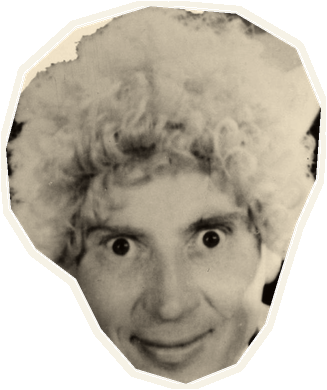
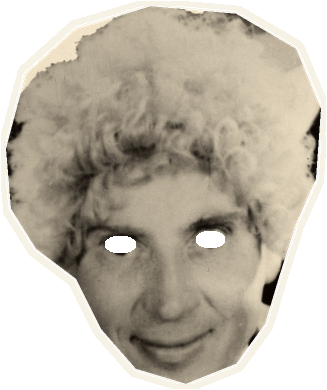
Harpo's eyes: holes in his face, his irises behind them, darting about all the time, often with his lids half down in a glare, now and then sliding slowly; to Raquel Torres when she passes

Changed region(s): [[0.581, 0.5846, 0.7034, 0.6462], [0.3058, 0.5846, 0.4281, 0.6462]]

diff --git a/src/grouchotime.c b/src/grouchotime.c
@@ -847,6 +847,37 @@ static void cues(double t0, double t1)
     if (e1 < 0 && gummo_at(t1, &gq1, &f1) && peeker(t1) == PEEK_GUMMO && f1 && gummo_at(t0, &gq0, &f0) && !f0) play(&honk2, 0.25);
 }
 
+/* Where Harpo's eyes are looking (-1 .. 1 across, -1 .. 1 up and down) and how far his
+ * lids are down (0 .. 1). They are never still for long: every so often (on a beat of
+ * EYE_BEAT seconds, at random) they dart somewhere new, to one side, the other, or at
+ * us, often with his lids half down in a glare; now and then they slide there slowly
+ * instead, which is creepier. They go to Raquel Torres, wide open, and roll round when
+ * his head comes up on its spring. */
+#define EYE_BEAT 0.35
+static void eye_target(long k, double *x, double *y, double *l)
+{
+    double a = hash01((uint64_t)k * 3 + 101), b = hash01((uint64_t)k * 3 + 102), c = hash01((uint64_t)k * 3 + 103);
+    *x = a < 0.3 ? -1 : a < 0.6 ? 1 : (a - 0.6) / 0.4 * 1.4 - 0.7;
+    *y = (b - 0.35) * 0.7;
+    *l = c < 0.45 ? 0.38 : 0;
+}
+static int eyes_move(long k) { return hash01((uint64_t)k * 5 + 77) < 0.4; }
+static void harpo_eyes(int ev, double ju, double *lx, double *ly, double *lid)
+{
+    long k = (long)floor(T / EYE_BEAT), k1 = k, k0;
+    while (k1 > k - 24 && !eyes_move(k1)) k1--;              /* when they last moved */
+    for (k0 = k1 - 1; k0 > k1 - 24 && !eyes_move(k0); k0--) ;
+    double x0, y0, l0, x1, y1, l1;
+    eye_target(k0, &x0, &y0, &l0);
+    eye_target(k1, &x1, &y1, &l1);
+    double since = T - k1 * EYE_BEAT, slow = hash01((uint64_t)k1 * 7 + 5) < 0.15 ? 0.9 : 0.07;
+    double q = ease(fmin(since / slow, 1)), ql = ease(fmin(since / 0.15, 1));
+    double x = x0 + (x1 - x0) * q, y = y0 + (y1 - y0) * q, l = l0 + (l1 - l0) * ql;
+    if (ev == EV_TORRES && ju > 0.1 && ju < 0.9) { x = -1; y = 0.2; l = 0; }
+    if (ev == EV_HARPO && ju < 0.85) { x = cos(ju * 20); y = sin(ju * 20); l = 0; }
+    *lx = x; *ly = y; *lid = l;
+}
+
 static void draw_scene(SDL_Renderer *r, int w, int h)
 {
     ren = r; sw = w; sh = h;
@@ -921,7 +952,8 @@ static void draw_scene(SDL_Renderer *r, int w, int h)
     hand(dx, dy, hp / 3600, dr * 1.42, dr * 0.05);
     flush(ren);
 
-    /* Harpo, as the sphinx: silent, and now and then his head goes over to one side */
+    /* Harpo, as the sphinx: silent, and now and then his head goes over to one side,
+     * while his eyes behind the holes in his face go where they please */
     {
         double hx, hy, tt = fmod(T, 23.0), tilt = 0;
         if (tt > 17) tilt = sin(M_PI * jerky(tt - 17) / 6) * 14;
@@ -937,7 +969,28 @@ static void draw_scene(SDL_Renderer *r, int w, int h)
             flush(ren);
             hy = top; tilt = sin(ju * 25) * 12;
         }
-        put(SP_harpo, hx, hy, HARPO_CHIN_X, HARPO_CHIN_Y, ms * 0.56, tilt, 1, 0);
+        double look_x, look_y, lid;
+        harpo_eyes(ev, ju, &look_x, &look_y, &lid);
+        double hsc = ms * 0.56, ra = tilt * M_PI / 180;
+        for (int e = 0; e < 2; e++) {
+            double ex = e ? HARPO_EYE_R_X : HARPO_EYE_L_X, ey = e ? HARPO_EYE_R_Y : HARPO_EYE_L_Y;
+            double rx = e ? HARPO_EYE_R_RX : HARPO_EYE_L_RX, ry = e ? HARPO_EYE_R_RY : HARPO_EYE_L_RY;
+            double dx = (ex - HARPO_CHIN_X) * hsc, dy = (ey - HARPO_CHIN_Y) * hsc;
+            double x = hx + dx * cos(ra) - dy * sin(ra), y = hy + dx * sin(ra) + dy * cos(ra);
+            disc(x, y, rx * hsc * 1.1, col((Rgb){236, 228, 210}, 1), col((Rgb){236, 228, 210}, 1));
+            flush(ren);
+            int ir = e ? SP_harpo_iris_r : SP_harpo_iris_l;
+            double ox = look_x * rx * 0.48, oy = look_y * ry * 0.4;
+            put(ir, x + (ox * cos(ra) - oy * sin(ra)) * hsc, y + (ox * sin(ra) + oy * cos(ra)) * hsc,
+                sprite[ir].w / 2.0, sprite[ir].h / 2.0, hsc, tilt, 1, 0);
+            if (lid > 0.01) {                                /* his lids, coming down */
+                double R = rx * hsc * 3, d = R + ry * hsc * (1 - 2 * lid);
+                flush(ren);
+                disc(x + d * sin(ra), y - d * cos(ra), R, col((Rgb){140, 129, 112}, 1), col((Rgb){140, 129, 112}, 1));
+            }
+        }
+        flush(ren);
+        put(SP_harpo, hx, hy, HARPO_CHIN_X, HARPO_CHIN_Y, hsc, tilt, 1, 0);
     }
 
     /* his eyes, behind the holes in his head: paper whites, and the irises going to

diff --git a/tools/make_cutouts.py b/tools/make_cutouts.py
@@ -57,6 +57,10 @@ BROTHERS = {
                (1320, 3220), (1240, 3140), (1190, 3020), (1160, 2880)], (1420, 3240)),
 }
 SPHINX_CHIN = (1345, 955)
+# Harpo's eyes, in his finished cut-out's pixels: the openings (a little bigger than his
+# own, so his glances show from across the room) and his irises
+HARPO_EYES = {"harpo_eye_l": (120, 244, 16, 9), "harpo_eye_r": (210, 239, 15, 9)}
+HARPO_IRIS_R = 7
 
 # ---- the ladies, for the business in between: Raquel Torres (1930s studio
 # portrait) and Margaret Dumont (The Cocoanuts, 1929), both public domain ----
@@ -273,6 +277,17 @@ def brothers(defs):
         rgba = np.dstack([rgb, (m * 255).astype(np.uint8)])[b:d, a:c]
         half = np.asarray(Image.fromarray(rgba, "RGBA").resize(((c - a) // 2, (d - b) // 2), Image.LANCZOS))
         out = with_edge(pad(half, EDGE + 1))
+        if name == "harpo":                                  # his eyes: irises out, holes in
+            oh, ow = out.shape[:2]
+            yy, xx = np.mgrid[0:oh, 0:ow]
+            for eye, (ex, ey, rx, ry) in HARPO_EYES.items():
+                r = HARPO_IRIS_R
+                piece = out[ey - r:ey + r, ex - r:ex + r].copy()
+                cy, cx = np.mgrid[0:2 * r, 0:2 * r]
+                piece[..., 3] = np.where((cx - r + 0.5) ** 2 + (cy - r + 0.5) ** 2 < r * r, 255, 0)
+                save(piece, eye.replace("eye", "iris"))
+                out[((xx - ex) / rx) ** 2 + ((yy - ey) / ry) ** 2 < 1, 3] = 0
+                defs[eye.upper()] = (ex, ey, rx, ry)
         save(out, name)
         defs[name.upper() + "_CHIN"] = ((chin[0] - a) / 2 + EDGE + 1, (chin[1] - b) / 2 + EDGE + 1)
     defs["SPHINX_CHIN"] = SPHINX_CHIN
@@ -293,7 +308,7 @@ def write_lists(defs):
     for k, v in defs.items():
         for i, n in enumerate(v):
             suffix = "XYZW"[i] if len(v) > 2 else "XY"[i]
-            if k in ("EYE_L", "EYE_R"): suffix = ("X", "Y", "RX", "RY")[i]
+            if k.endswith(("EYE_L", "EYE_R")): suffix = ("X", "Y", "RX", "RY")[i]
             if k == "DIAL": suffix = ("X", "Y", "R")[i]
             if k == "MONUMENT": suffix = ("W", "H")[i]
             lines.append(f"#define {k}_{suffix} {n:.1f}")

diff --git a/src/art.h b/src/art.h
@@ -1,6 +1,6 @@
 /* Made by tools/make_cutouts.py: every picture in assets/art. */
 #define SPRITES \
     X(brow_l, "brow_l.png") X(brow_r, "brow_r.png") X(chico, "chico.png") X(dumont, "dumont.png") \
-    X(flap, "flap.png") X(gummo, "gummo.png") X(harpo, "harpo.png") X(head, "head.png") \
-    X(iris_l, "iris_l.png") X(iris_r, "iris_r.png") X(monument, "monument.png") X(torres, "torres.png") \
-    X(zeppo, "zeppo.png")
+    X(flap, "flap.png") X(gummo, "gummo.png") X(harpo, "harpo.png") X(harpo_iris_l, "harpo_iris_l.png") \
+    X(harpo_iris_r, "harpo_iris_r.png") X(head, "head.png") X(iris_l, "iris_l.png") X(iris_r, "iris_r.png") \
+    X(monument, "monument.png") X(torres, "torres.png") X(zeppo, "zeppo.png")

diff --git a/src/cutouts.h b/src/cutouts.h
@@ -28,6 +28,14 @@
 #define PHOTO_CHIN_Y 745.0
 #define CHICO_CHIN_X 126.0
 #define CHICO_CHIN_Y 307.5
+#define HARPO_EYE_L_X 120.0
+#define HARPO_EYE_L_Y 244.0
+#define HARPO_EYE_L_RX 16.0
+#define HARPO_EYE_L_RY 9.0
+#define HARPO_EYE_R_X 210.0
+#define HARPO_EYE_R_Y 239.0
+#define HARPO_EYE_R_RX 15.0
+#define HARPO_EYE_R_RY 9.0
 #define HARPO_CHIN_X 186.0
 #define HARPO_CHIN_Y 383.5
 #define ZEPPO_CHIN_X 141.0
